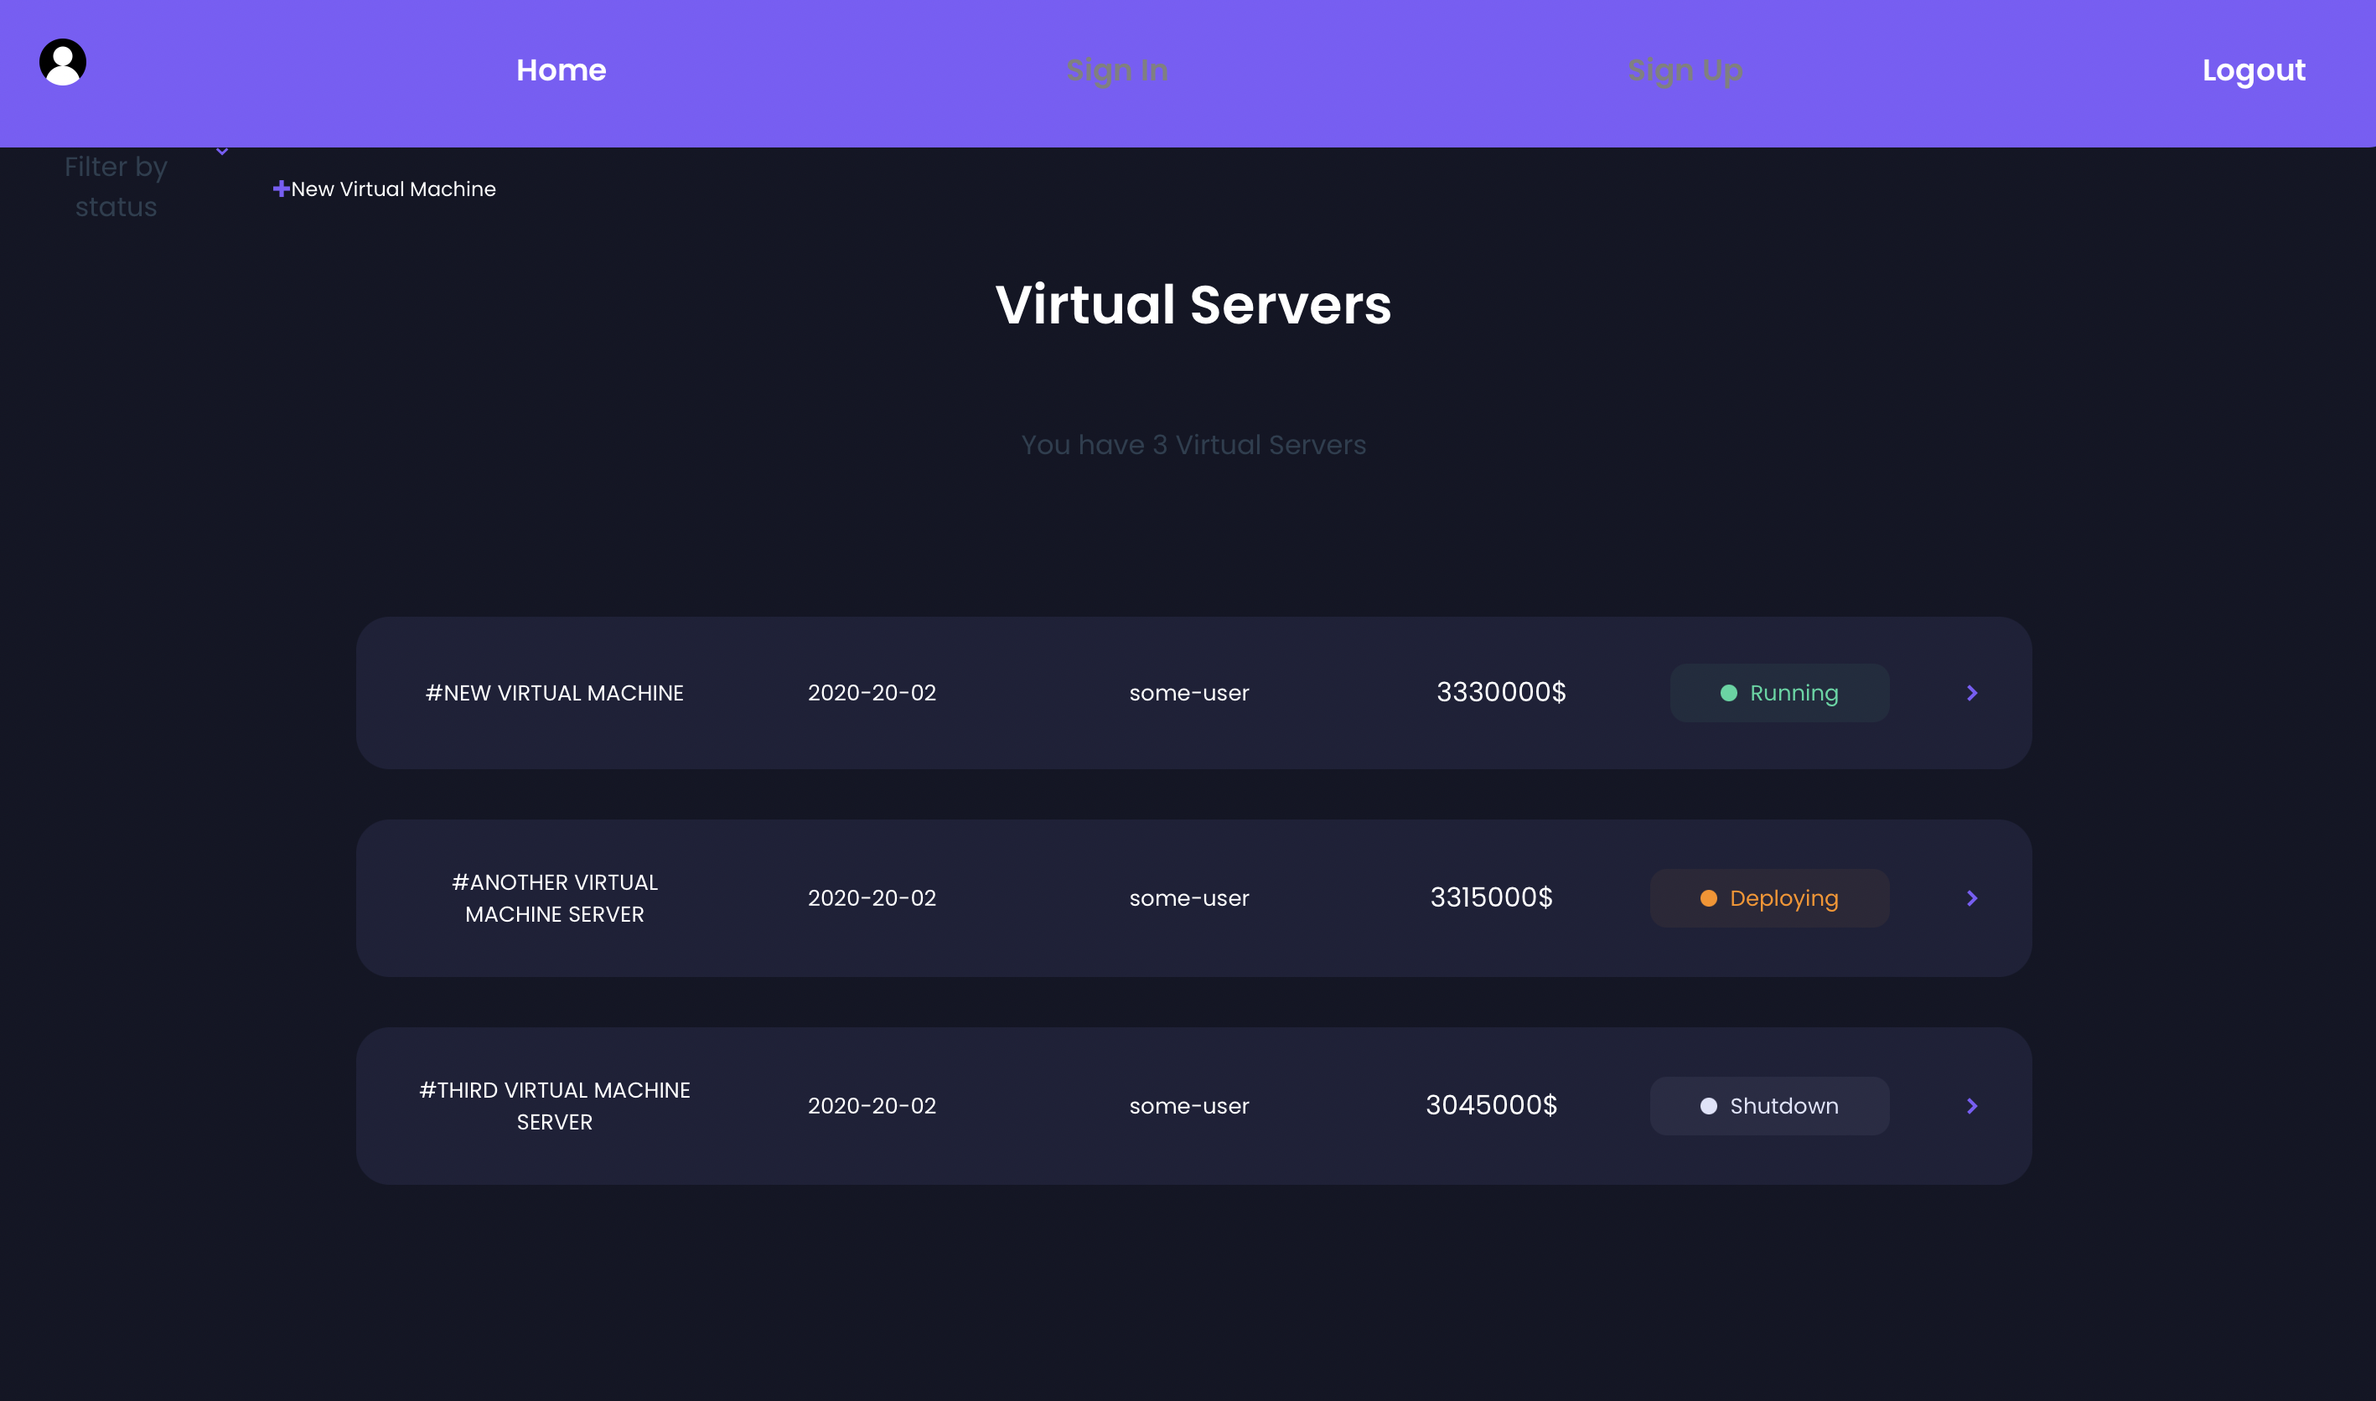
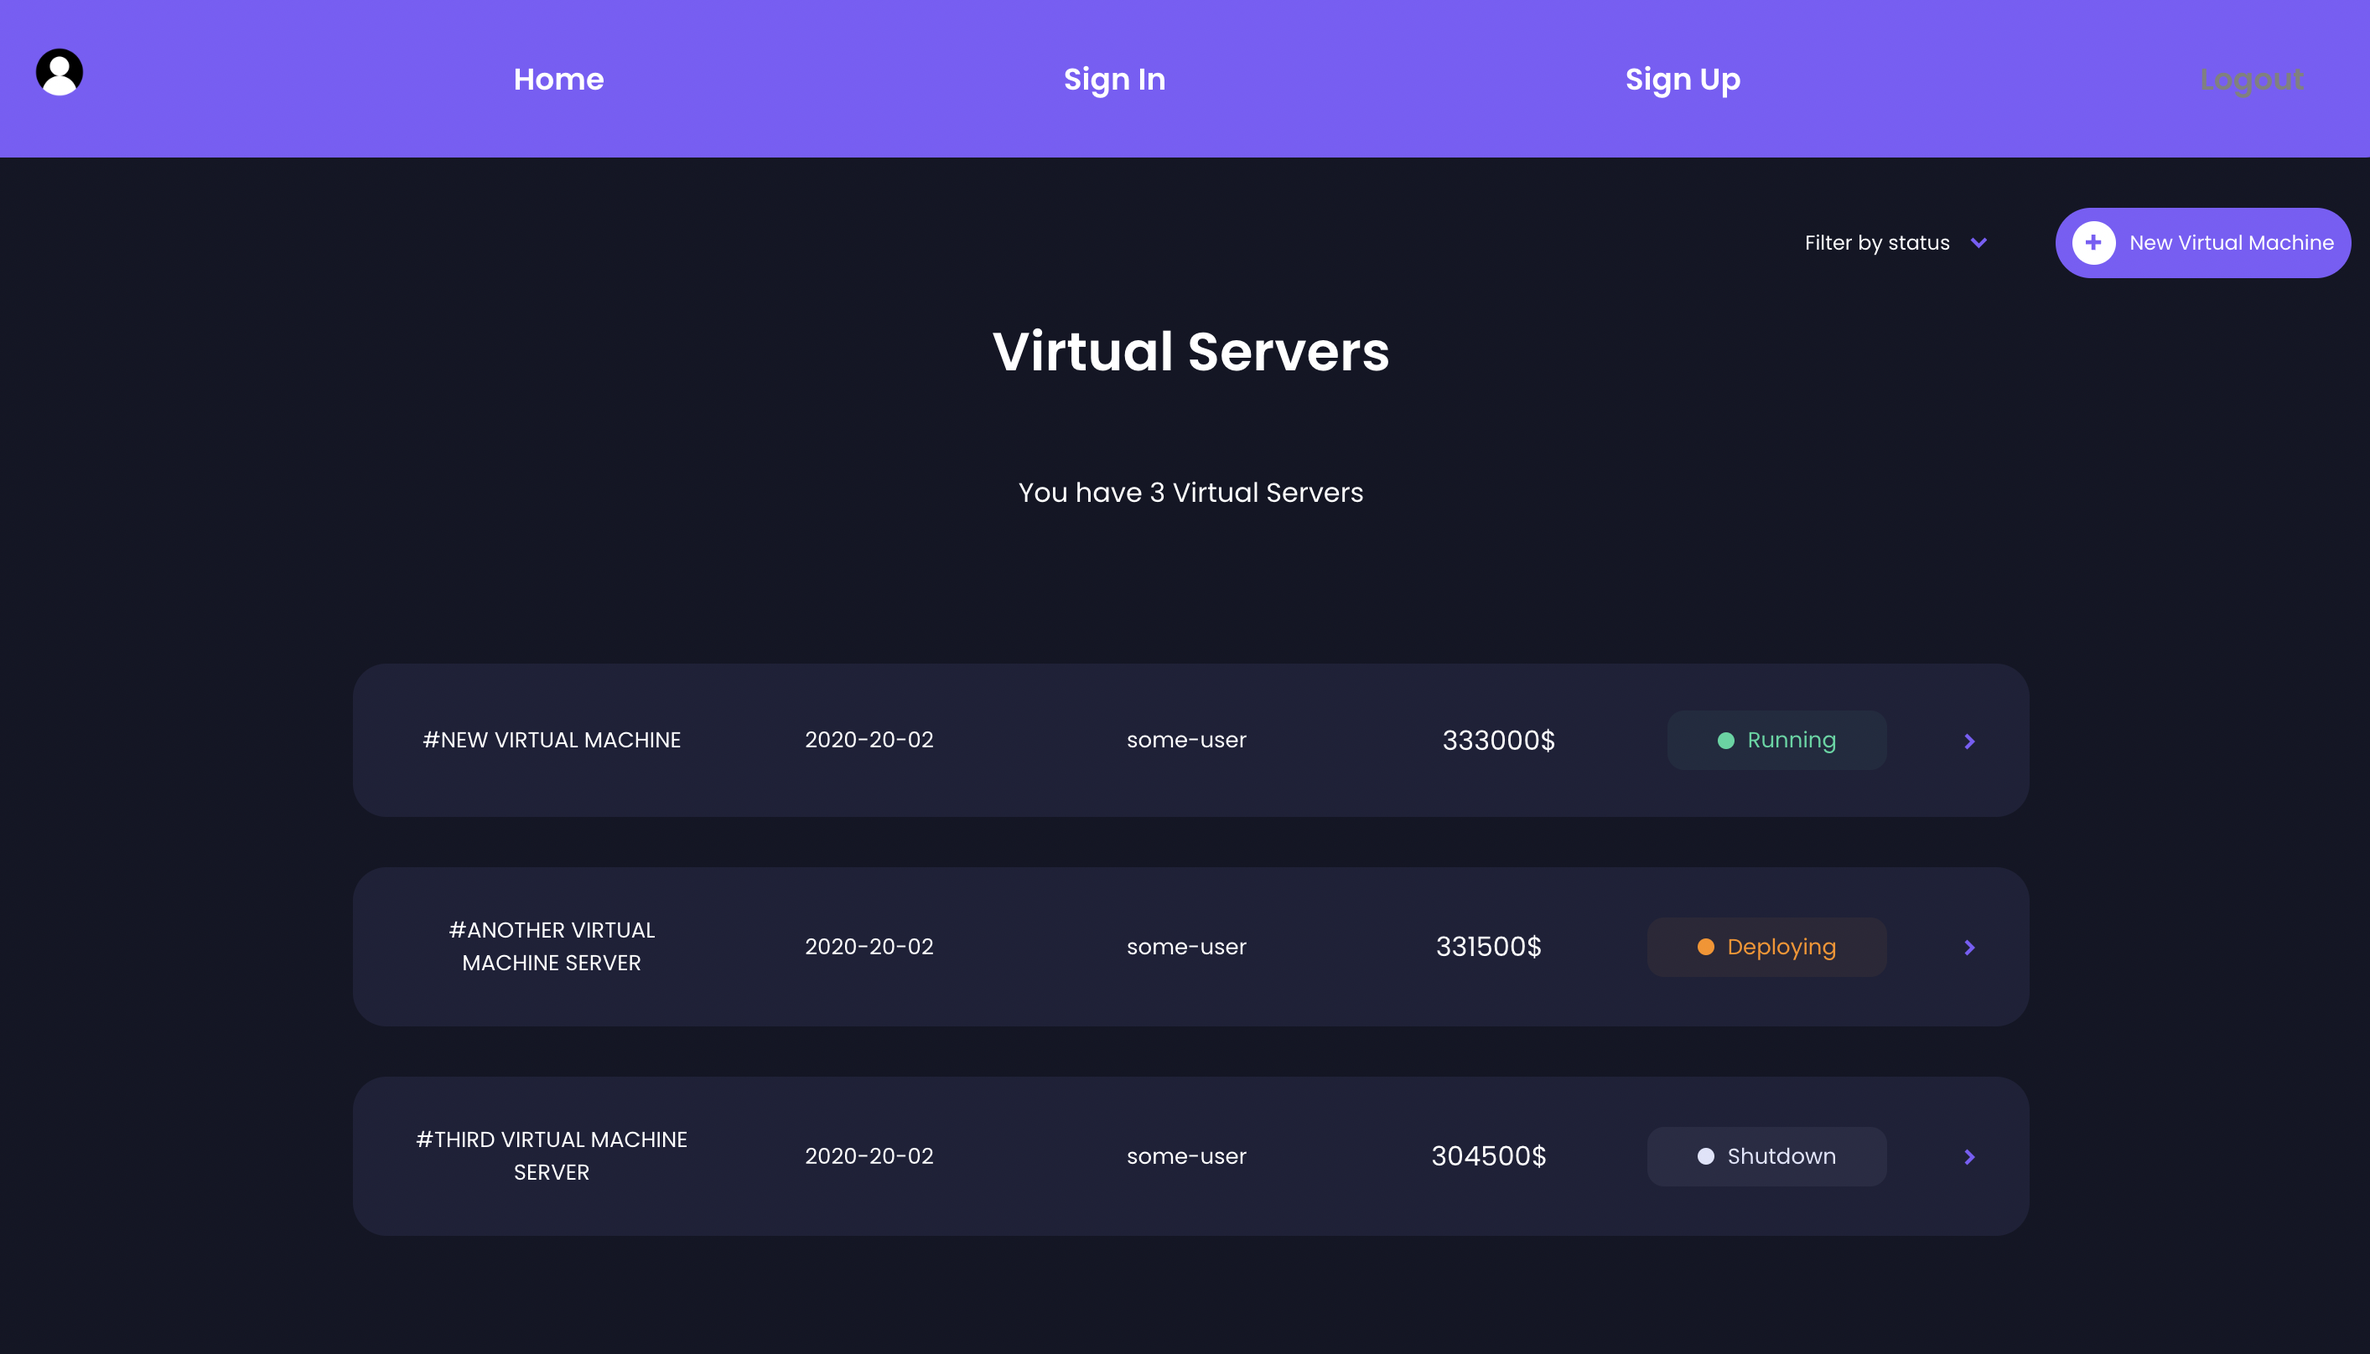
Fixed Main Page Template Issue, Updated Components, Updated Rest API Integrations

diff --git a/src/views/home.vue b/src/views/home.vue
@@ -1,4 +1,5 @@
 <template>
+
   <div class="homeWrapper">
 
     <router-link :to="{ name: 'login_page'}"></router-link>
@@ -8,34 +9,32 @@
     <!-- Header -->
 
     <div :v-if="virtualMachineData.length > 0 && virtualMachinesLoaded == true" class="header flex">
-      <div class="right flex">
         <div @click="toggleFilterMenu" class="filter flex">
           <span
-            >Filter by status <span v-if="filteredVirtualMachine">: {{ filteredVirtualMachines }}</span></span
+            >Filter by status <span v-if="filteredVirtualMachine">: {{ filterParams }}</span></span
           >
           <img :src="require('@/assets/icon-arrow-down.svg')" alt="icon-arrow-down" style="width:10%; height:10%"/>
           <ul v-show="filterMenu" class="filter-menu">
-            <li @click="filteredVirtualMachine">Running</li>
-            <li @click="filteredVirtualMachine">Shutdown</li>
-            <li @click="filteredVirtualMachine">Deploying</li>
-            <li @click="filteredVirtualMachine">Clear</li>
+            <li @click="filterVirtualMachine">Running</li>
+            <li @click="filterVirtualMachine">Shutdown</li>
+            <li @click="filterVirtualMachine">Deploying</li>
+            <li @click="filterVirtualMachine">Clear</li>
           </ul>
         </div>
 
-        <div  @click="newVirtualMachine" class="button flex">
+        <div @click="newVirtualMachine" class="button flex">
           <div class="inner-button flex">
             <img :src="require('@/assets/icon-plus.svg')" alt="icon_plus" />
           </div>
           <span >New Virtual Machine</span>
         </div>
-      </div>
     </div>
 
     <!-- Virtual Machines -->
 
-    <div v-if="virtualMachineData.length > 0 && virtualMachinesLoaded == true">
+    <div style="margin-top: 5px;" v-if="virtualMachineData.length > 0 && virtualMachinesLoaded == true">
       <div class="left flex flex-column" style="margin-bottom: 70px; justify-content: center;">
-        <h1 style="margin-top: 20px;">Virtual Servers</h1>
+        <h1 style="margin-top: 10px;">Virtual Servers</h1>
         <span style="margin-bottom: 20px;">You have {{ virtualMachineData.length }} Virtual Servers</span>
       </div>
       <VirtualMachineBannerInfo style="justify-content: center; margin-bottom: 30px; margin-left: 200px; margin-right: 200px;" v-for="(VirtualMachine, index) in filteredData" :VirtualMachine="VirtualMachine" :key="index" />
@@ -68,7 +67,7 @@ export default {
     return {
       // Filter Params
       filterMenu: null,
-      filteredVirtualMachine: null,
+      filterParams: null,
     };
   },
   created() {
@@ -90,10 +89,10 @@ export default {
     },
     filterVirtualMachine(e) {
       if (e.target.innerText === "Clear") {
-        this.filteredVirtualMachine = null;
+        this.filterParams = null;
         return;
       }
-      this.filteredVirtualMachine = e.target.innerText;
+      this.filterParams = e.target.innerText;
     },
   },
   components: {
@@ -103,6 +102,7 @@ export default {
     ...mapState(["virtualMachineData", "virtualMachinesLoaded"]),
     filteredData() {
       return this.virtualMachineData.filter((virtualMachine) => {
+
         if (this.filteredVirtualMachine === "Clear") {
           this.filteredVirtualMachine = null
           return true
@@ -125,26 +125,28 @@ export default {
 
 
 <style lang="scss" scoped>
-  .homeWrapper {
+
+.homeWrapper {
     text-align: center;
     justify-content: center;
     align-items: center;
     padding: 0 20px;
     flex: 1;
     position: relative;
-  }
-.home {
+
   color: #fff;
   .header {
-    margin-bottom: 65px;
+    margin-top: 30px;
+    margin-bottom: 10px;
     .left,
     .right {
       flex: 1;
       align-content: center;
     }
-    .right {
       justify-content: flex-end;
       align-items: center;
+      flex: 1;
+      align-content: center;
       .button,
       .filter {
         align-items: center;
@@ -217,7 +219,6 @@ export default {
       margin-top: 16px;
     }
   }
-}
 .dark-purple {
   background-color: #252945;
 }

diff --git a/rest/customers.js b/rest/customers.js
@@ -1,15 +1,13 @@
-var BACKEND_APPLICATION_HOST = process.env.BACKEND_APPLICATION_HOST
-var BACKEND_APPLICATION_PORT = process.env.BACKEND_APPLICATION_PORT
+var BACKEND_APPLICATION_HOST = process.env.BACKEND_APPLICATION_HOST || 'localhost'
+var BACKEND_APPLICATION_PORT = process.env.BACKEND_APPLICATION_PORT || '8000'
 
-var $ = global.jQuery;
-window.jquery = $;
-
-
+import { useCookies } from "vue3-cookies"
+const Cookie = useCookies();
 
 function CreateCustomerRestController(CustomerData) {
   // Rest Controller, that is responsible for creating new Customer Profile
 
-    var APIUrl = new URL("http://%s:%s/customer/create/" % (BACKEND_APPLICATION_HOST, BACKEND_APPLICATION_PORT))
+    var APIUrl = new URL(`http://${BACKEND_APPLICATION_HOST}:${BACKEND_APPLICATION_PORT}/customer/create/`)
     var HttpResponse, HttpErrors = global.jQuery.ajax({
       type: "POST",
       data: JSON.stringify(CustomerData),
@@ -26,7 +24,7 @@ function CreateCustomerRestController(CustomerData) {
           return false, newError
         }
         if (Response.StatusCode == 201) {
-          $.SetCookie("jwt-token", Response.getResponseHeader("jwt-token"))
+          Cookie.cookies.set("jwt-token", Response.getResponseHeader("jwt-token"))
           return true, null
         }
         if (Response.StatusCode == 500) {
@@ -50,7 +48,7 @@ function CreateCustomerRestController(CustomerData) {
 function ResetPasswordRestController(JwtToken, NewPassword){
   // Rest Controller, that Is Responsible for Resetting Password
 
-  var APIUrl = new URL("http://%s:%s/customer/reset/password" % (BACKEND_APPLICATION_HOST, BACKEND_APPLICATION_PORT))
+  var APIUrl = new URL(`http://${BACKEND_APPLICATION_HOST}:${BACKEND_APPLICATION_PORT}/customer/reset/password`)
   let ResponseStatus, ResponseErrors = global.jQuery.ajax({
     data: JSON.stringify({"NewPassword": NewPassword}),
     dataType: "json",
@@ -79,7 +77,7 @@ function ResetPasswordRestController(JwtToken, NewPassword){
 function DeleteCustomerRestController(JwtToken) {
   // Rest Controller, that is used to deleting the Customer Profile
 
-  var APIUrl = new URL("http://%s:%s/customer/delete" % (BACKEND_APPLICATION_HOST, BACKEND_APPLICATION_PORT))
+  var APIUrl = new URL(`http://${BACKEND_APPLICATION_HOST}:${BACKEND_APPLICATION_PORT}/customer/delete`)
   var Response, ResponseError = global.jQuery.ajax({
     URL: APIUrl,
     type: "DELETE",
@@ -109,8 +107,7 @@ function DeleteCustomerRestController(JwtToken) {
 
 function LoginCustomerRestController(LoginForm) {
   // Logs in Customer into the Profile
-  var APIUrl = urllib.URL("http://%s:%s/login/" % (
-  BACKEND_APPLICATION_HOST, BACKEND_APPLICATION_PORT))
+  var APIUrl = URL(`http://${BACKEND_APPLICATION_HOST}:${BACKEND_APPLICATION_PORT}/login/`)
   var Response, ResponseError = global.jQuery.ajax({
     type: "POST",
     URL: APIUrl,
@@ -139,8 +136,7 @@ function LoginCustomerRestController(LoginForm) {
 function GetCustomerProfileRestController(JwtToken) {
   // Returns the Customer Profile Info 
 
-  let APIUrl = new urllib.URL("http://%s:%s/customer/get/profile/",
-  BACKEND_APPLICATION_HOST, BACKEND_APPLICATION_PORT) 
+  let APIUrl = new URL(`http://${BACKEND_APPLICATION_HOST}:${BACKEND_APPLICATION_PORT}/customer/get/profile`) 
   let Response, ResponseError = global.jQuery.ajax({
     url: APIUrl, 
     type: "GET",

diff --git a/src/views/RegistrationPage.vue b/src/views/RegistrationPage.vue
@@ -50,7 +50,7 @@
                     label="Country"
                     placeholder="select Country"
                     prepend-inner-icon="mdi-account"
-                    required:items="countries">
+                    required:items="countries" required>
 
                            <template v-slot:selection="{ item, index}">
                               <input type="hidden" :value="index">
@@ -83,7 +83,11 @@
                   required
                 />
 
-            <v-switch label="Remember me" color="indigo"></v-switch>
+            <v-switch 
+            @click="RememberUserFunction"
+            v-model="RememberUser"
+            label="Remember me"
+            color="indigo"></v-switch>
             </v-card-text>
 
             <v-card-actions class="justify-center">
@@ -96,11 +100,11 @@
         </v-card>
       </v-col>
 
-      <v-snackbar top color="green" v-model="snackbar">
+      <v-snackbar top color="green">
         Registration success
       </v-snackbar>
 
-      <v-snackbar :v-if="RegisterFailed" top color="red" v-model="snackbar">
+      <v-snackbar v-if="RegisterFailed" top color="red">
         Registration Failed, {{ RegisterError }}
       </v-snackbar>
       </div>
@@ -144,6 +148,8 @@ export default {
     passwordShow:false,
     Valid: false,
 
+    RememberUser: false,
+
     Username: '',
     UsernameRules: [
       username => !!username || 'This Field is Required',
@@ -166,32 +172,51 @@ export default {
 
     Country: '',
     CountryRules: [
-      country => !country || 'Country is required',
+      country => !!country || 'Country is required',
     ],
 
 
     ZipCode: '',
     ZipCodeRules: [
-      zipcode => !zipcode.length || 'Zip Code is required',
+      zipcode => zipcode.length > 0 || 'Zip Code is required',
+      zipcode => isNaN(zipcode) == false || 'Invalid Zip Code',
     ],
 
     Street: '',
       StreetRules: [
-        street => !street.length || 'Street is required',
+        street => street.length > 0 || 'Street is required',
     ],
   }),
 
   methods: {
 
+    RememberUserFunction() {
+      // Remembers the Username and Password 
+    },
+    
     submitRegisterForm(){
-      if (this.$refs.form.validate()){
-          this.loading = true
-        setTimeout(()=> {
-          this.loading = false
-          this.snackbar = true
-        }, 3000)
-        this.registerCustomer()
+      // Submitting the Registration Form 
+      for (let Property in Object.keys(this.$data)) {
+        if (this.$data[Property] == null || this.$data[Property].length == 0) {
+          this.RegisterFailed = true 
+          this.RegisterError = "Please Fill out all the Required Fields"
+          break
+        }
       }
+
+      if (this.RegisterFailed != true) {
+
+          if (this.$refs.form.validate()){
+              this.loading = true
+            setTimeout(()=> {
+              this.loading = false
+              this.snackbar = true
+            }, 3000)
+            this.registerCustomer()
+          }
+      }
+      this.RegisterFailed = false 
+      this.RegisterError = null
     },
     registerCustomer() {
       // Submits the Registration Form 

diff --git a/src/components/VirtualMachine.vue b/src/components/VirtualMachine.vue
@@ -11,7 +11,7 @@
           d="M730.6 18.4l-505.4 505.2 505.4 505.4 144.8-144.8-360.6-360.6 360.6-360.4z"
         ></path>
       </svg>
-      <span class="back-text" @click="redirectToPreviousPage()">Go Back</span>
+      <span class="back-text" @click="redirectToPreviousPage">Go Back</span>
     </router-link>
     <div class="status-container">
       <p class="status-title" style="margin-top: 6px; margin-right: 3px;">Status</p>
@@ -126,10 +126,13 @@
           })"
           :key="index"
         >
-          <p class="prj-text" v-if="PropertyName.toLowerCase() !== 'storagecapacity'">{{ PropertyName }}</p>
-          <p class="prj-text" v-else>Storage Capacity</p>
+          <p class="prj-text" v-if="PropertyName.toLowerCase() === 'cpunum'">CPU Numbers</p>
           <p class="prj-text" v-if="PropertyName.toLowerCase() == 'cpunum'">{{ VirtualMachine[PropertyName]|| 0 }}</p>
+          
+          <p class="prj-text" v-if="PropertyName.toLowerCase() === 'memory'">Memory</p>
           <p class="prj-text" v-if="PropertyName.toLowerCase() == 'memory'">{{ VirtualMachine[PropertyName] || 0 }}MB</p>
+          
+          <p class="prj-text" v-if="PropertyName.toLowerCase() === 'storagecapacity'">Storage Capacity</p>
           <p class="prj-text" v-if="PropertyName.toLowerCase() == 'storagecapacity'">{{ VirtualMachine[PropertyName] || 0 }}GB</p>
 
           <!-- Receiving the Cost of the Specific Property  (Cpu, Memory, etc....)-->

diff --git a/src/components/NavigationPage.vue b/src/components/NavigationPage.vue
@@ -2,8 +2,16 @@
   <header class="flex">
 
     <div class="branding flex" style="max-height: 100px; justify-content: space-between;">
-      <v-avatar :v-if="authenticated" size="50">
+      <v-avatar v-if="authenticated" size="50">
         <div @click="redirectToProfile" class="button flex">
+          <div class="inner-button flex">
+            <img :src="require('@/assets/customer_avatar.png')" alt="icon_plus" />
+          </div>
+        </div>
+      </v-avatar>
+
+       <v-avatar v-else size="50">
+        <div class="button flex">
           <div class="inner-button flex">
             <img :src="require('@/assets/customer_avatar.png')" alt="icon_plus" />
           </div>
@@ -55,9 +63,6 @@ export default {
     ...mapMutations([
       "TOGGLE_LOGOUT_MODAL",
     ]),
-    ...mapState([
-      "authenticated",
-    ]),
     triggerLogoutModal() {
       // Triggers Logout Modal Window 
       this.TOGGLE_LOGOUT_MODAL()
@@ -78,6 +83,11 @@ export default {
       // Redirects to the Home Page 
       this.$router.push({name: "main_page"})
     }
+  },
+  computed: {
+    ...mapState([
+      "authenticated"
+    ]),
   }
 };
 

diff --git a/cost/virtualMachineCost.js b/cost/virtualMachineCost.js
@@ -4,9 +4,9 @@
 // THERE YOU CAN DEFINE THE STOCK PRICE FOR ANY RESOURCES OF THE VIRTUAL MACHINE SERVER 
 // CPU, MEMORY, STORAGE DISK, RUNTIME USAGE etc... 
 
-var STOCK_STORAGE_PRICE = process.env.STOCK_STORAGE_PRICE || 100
-var STOCK_CPU_PRICE = process.env.STOCK_CPU_PRICE || 100
-var STOCK_MEMORY_PRICE = process.env.STOCK_MEMORY_PRICE || 100
+var STOCK_STORAGE_PRICE = process.env.STOCK_STORAGE_PRICE || 10
+var STOCK_CPU_PRICE = process.env.STOCK_CPU_PRICE || 10
+var STOCK_MEMORY_PRICE = process.env.STOCK_MEMORY_PRICE || 10
 
 var STORAGE_STOCK_PRICE = STOCK_STORAGE_PRICE // per Megabyte in dollars
 var CPU_STOCK_PRICE = STOCK_CPU_PRICE // per number in dollars

diff --git a/src/components/resourceConfiguration.vue b/src/components/resourceConfiguration.vue
@@ -1,7 +1,6 @@
 <template>
 
       <h1 style="margin-top: 20px;">Resource Configuration</h1>
-
       <div class="modalField flex flex-column">
         <label for="CpuNum">CPU</label>
 

diff --git a/customers/customers.js b/customers/customers.js
@@ -83,4 +83,3 @@ class CustomerManager {
 }
 
 export {CustomerRegistrationForm, CustomerLoginForm, CustomerManager};
-

diff --git a/src/components/deployError.vue b/src/components/deployError.vue
@@ -1,4 +1,3 @@
-
 <script>
 
 // Component gives the clear reason why the deployment has failed
